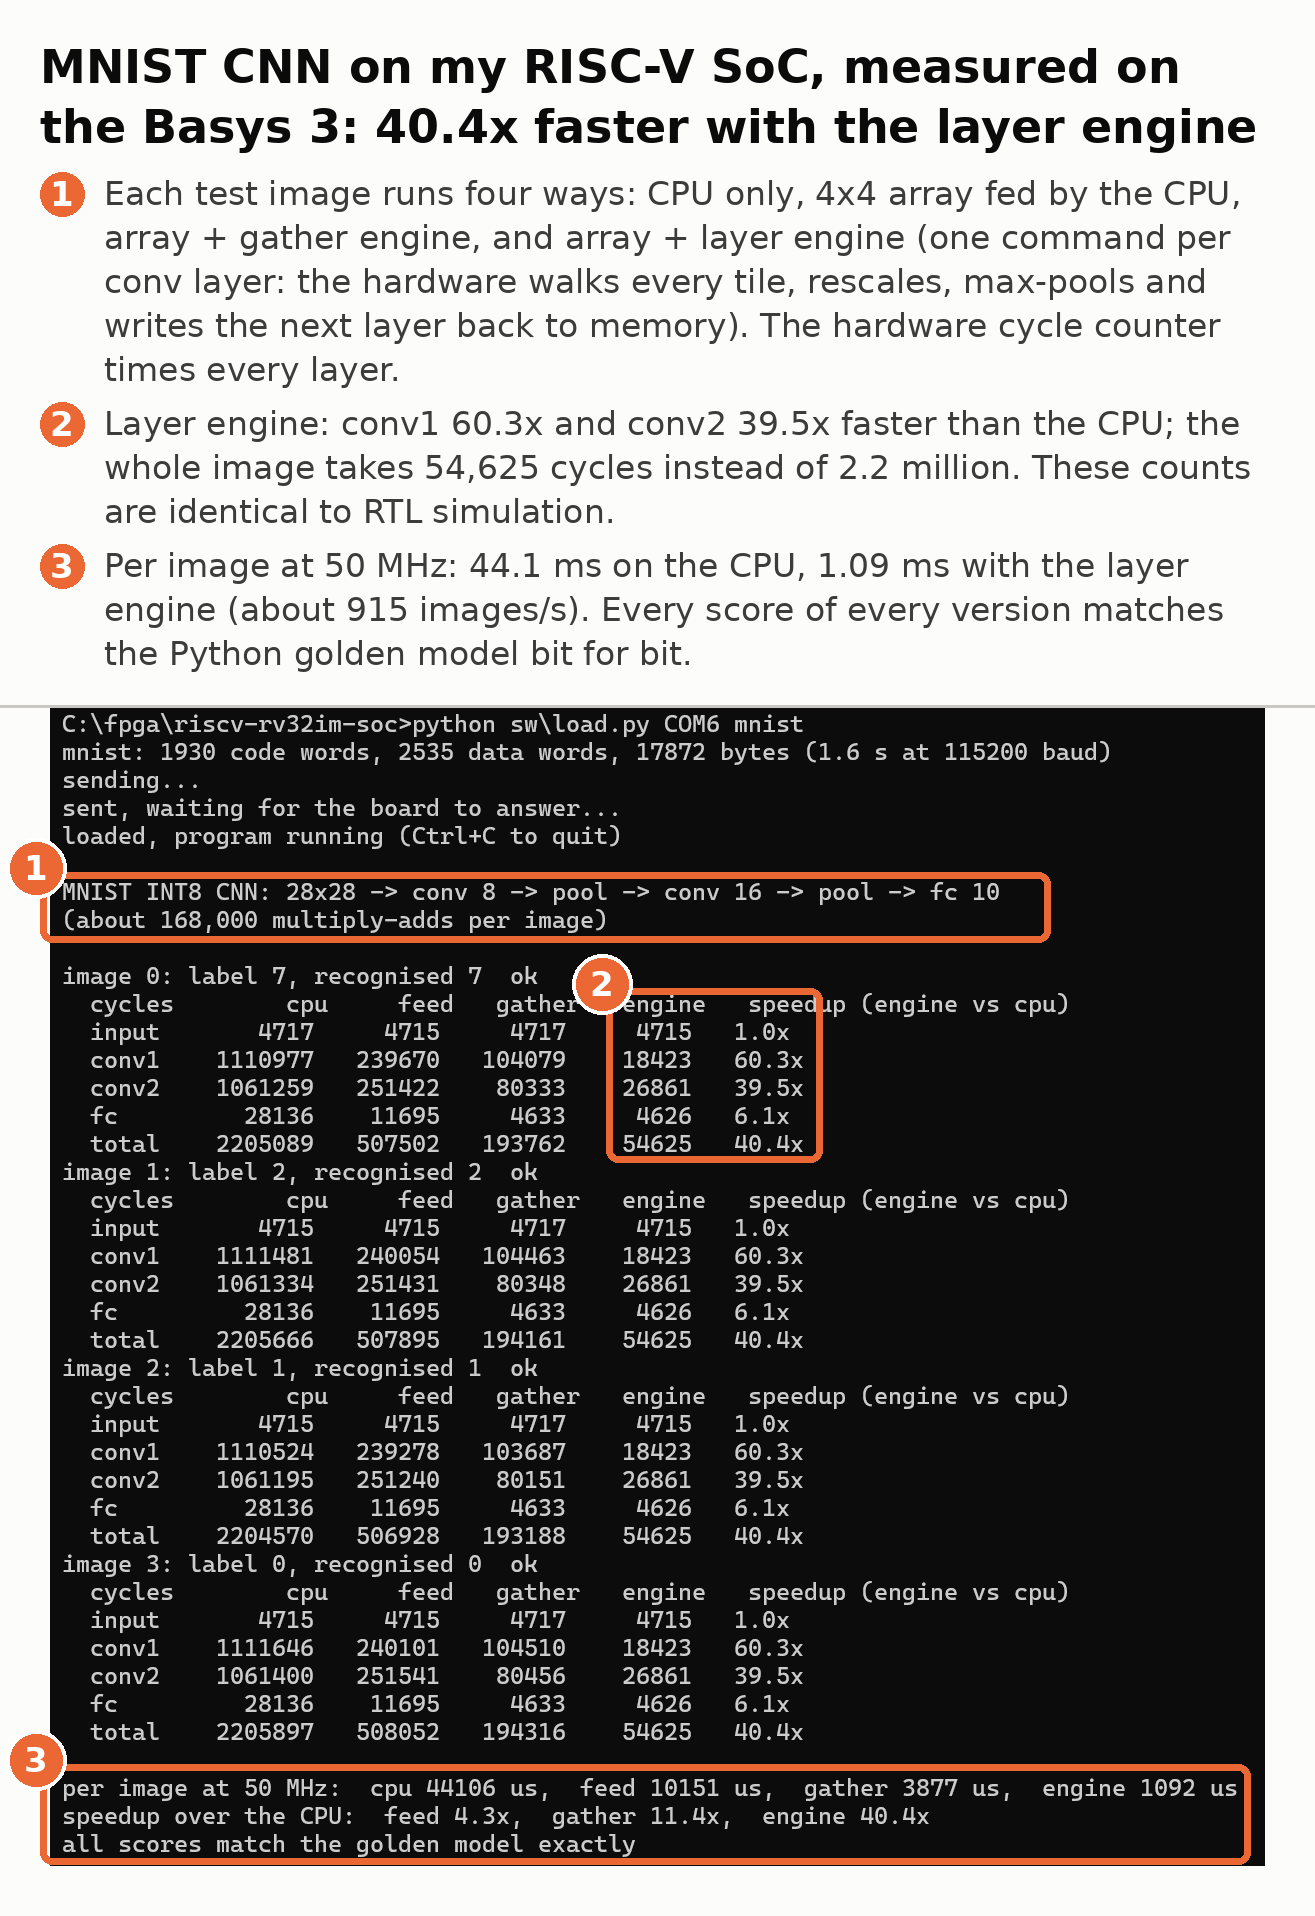
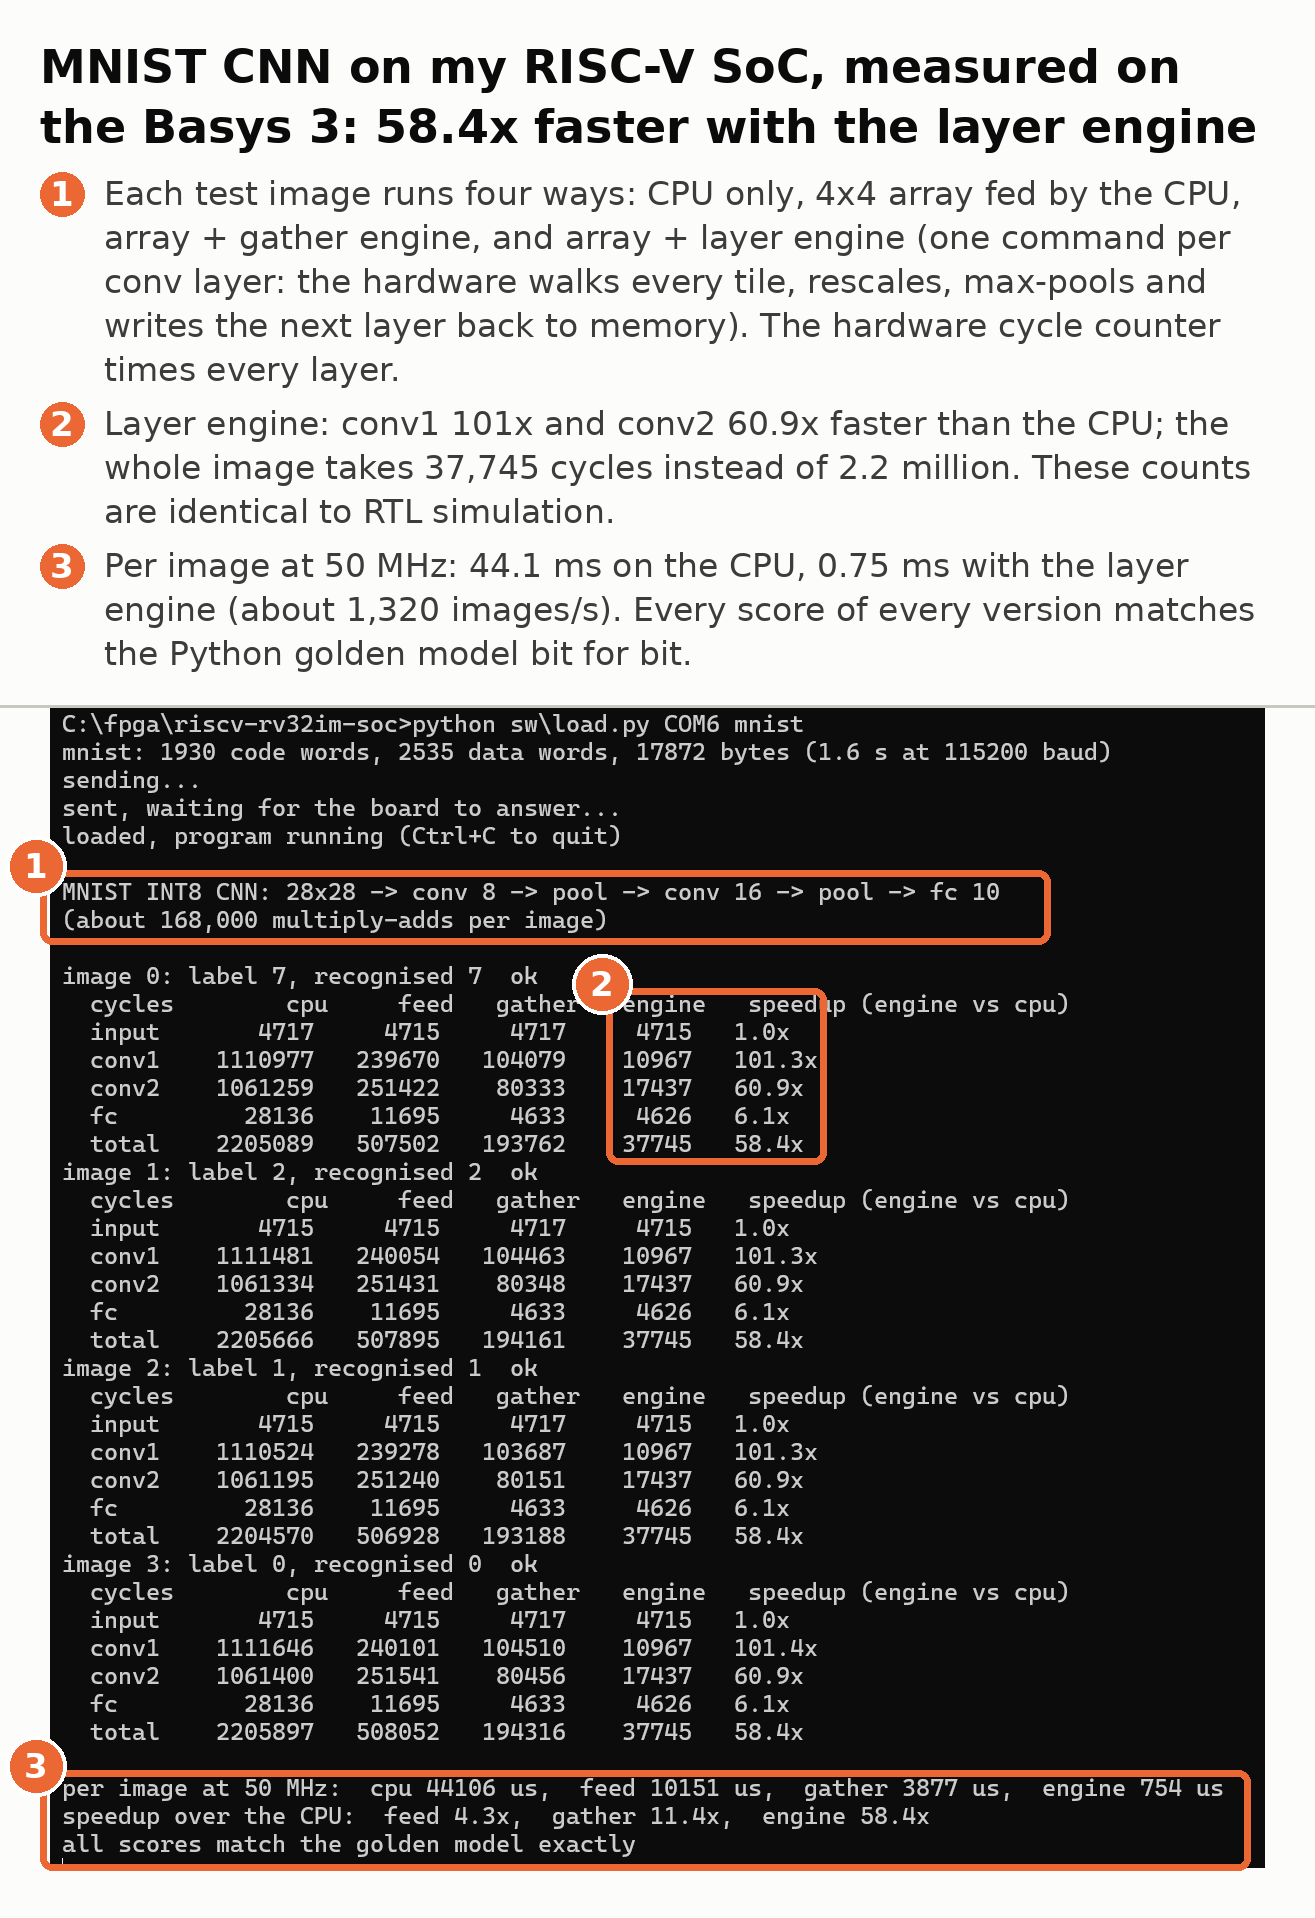
README: double buffering measured on the Basys 3 (58.4x, 0.75 ms per image)
Board cycle counts match RTL simulation; every score matches the golden model.
Updated the results table, the annotated board screenshot, the speedup chart and the
data-flow diagram (two buffer banks, fetch and compute sides); added step 7, where
the design stands (memory bandwidth, Amdahl limit) and a Future work section.

diff --git a/README.md b/README.md
@@ -12,7 +12,7 @@ UART console and a UART program loader, so new programs load in under a second w
 rebuilding the bitstream.
 
 Runs a **handwritten-digit recognition neural network** (INT8 CNN, 98.74 % on MNIST) on its own
-**systolic-array accelerator with a hardware layer engine**: **40.4x faster** than the CPU
+**systolic-array accelerator with a hardware layer engine**: **58.4x faster** than the CPU
 alone, measured on the board, with every output bit-identical to a Python golden model.
 
 Hardened into a **SkyWater 130 nm layout** (RTL to GDSII with LibreLane), and verified with two **UVM** environments on Cadence Xcelium (constrained-random programs checked
@@ -24,7 +24,7 @@ IMC), with planted bugs to prove the testbenches catch real failures.
 <table>
 <tr>
 <td width="50%"><img src="docs/images/nn/basys3_mnist_uart.png" alt="MNIST on the board"><br><b>A neural network on my CPU, measured on the Basys 3:</b> a small INT8 CNN recognises MNIST digits four ways: CPU only, accelerator fed by the CPU, with its gather engine, and with its layer engine. The hardware cycle counter times every layer; the board numbers are identical to RTL simulation and every score matches the Python golden model. <a href="#neural-network-on-the-soc-mnist">Details</a></td>
-<td width="50%"><img src="docs/images/nn/mnist_speedup.png" alt="speedup"><br><b>40.4x faster inference:</b> 44.1 ms per image on the CPU, 1.09 ms with the accelerator (about 915 images/s at 50 MHz). The first accelerator version was only 4.3x because the CPU spent its time moving data; each step after that came from measuring where the cycles went (gather engine 11.4x, layer engine 26.3x, deeper operand buffers 36.4x, parameters on chip 40.4x).</td>
+<td width="50%"><img src="docs/images/nn/mnist_speedup.png" alt="speedup"><br><b>58.4x faster inference:</b> 44.1 ms per image on the CPU, 0.75 ms with the accelerator (about 1,320 images/s at 50 MHz). The first accelerator version was only 4.3x because the CPU spent its time moving data; each step after that came from measuring where the cycles went (gather engine 11.4x, layer engine 26.3x, deeper operand buffers 36.4x, parameters on chip 40.4x, double buffering 58.4x).</td>
 </tr>
 <tr>
 <td colspan="2"><img src="docs/images/nn/accelerator_dataflow.png" alt="accelerator data flow"><br><b>What I built for it:</b> a layer engine that runs a whole convolution layer from one command: it drives a gather engine that reads image patches and weights straight from data memory through the block RAM's second port (convolution turned into matrix multiplication, "im2col", in hardware), an output stage that adds the bias, rescales to 8 bits and applies ReLU, and a 2x2 max pool that writes the next layer's input back to memory. The CPU sends one command per layer and waits.</td>
@@ -64,7 +64,7 @@ IMC), with planted bugs to prove the testbenches catch real failures.
 | FPGA | Basys 3 (Artix-7 XC7A35T): MMCM clocking, UART console, 7-segment display, LEDs, switches, buttons |
 | Program loader | hardware UART loader with checksum: `python sw/load.py COM5 bench` |
 | Accelerator | 4x4 INT8 systolic array (16 MACs/cycle) with a **layer engine** (one command per conv layer, 2x2 max pool in hardware), a **gather engine** (reads its own operands from data memory: im2col in hardware) and an **output stage** (bias, rescale, ReLU in hardware). 10.5x faster 32x32 matmul |
-| Neural network | INT8 CNN for MNIST (98.74 %), trained in NumPy, bit-exact C on the SoC: **40.4x** faster than the CPU on the board ([details](#neural-network-on-the-soc-mnist)) |
+| Neural network | INT8 CNN for MNIST (98.74 %), trained in NumPy, bit-exact C on the SoC: **58.4x** faster than the CPU on the board ([details](#neural-network-on-the-soc-mnist)) |
 | ASIC | Hardened on SkyWater 130 nm with LibreLane: 0.52 mm², DRC/LVS clean, timing closed at 20 MHz in all corners ([details](asic/riscv_cpu/README.md)) |
 | Verification | UVM on Xcelium + IMC: 48/48 riscv-tests in UVM, 17/17 regression tests pass, 100% functional coverage, SVA, bug injection |
 
@@ -158,11 +158,11 @@ hardware counter; identical to RTL simulation):
 
 | Layer | CPU only | Array fed by the CPU | + gather engine | + layer engine | Speedup |
 |---|---|---|---|---|---|
-| conv1 | 1,110,977 | 239,670 | 104,079 | **18,423** | 60.3x |
-| conv2 | 1,061,259 | 251,422 | 80,333 | **26,861** | 39.5x |
+| conv1 | 1,110,977 | 239,670 | 104,079 | **10,967** | 101x |
+| conv2 | 1,061,259 | 251,422 | 80,333 | **17,437** | 60.9x |
 | fully connected | 28,136 | 11,695 | 4,633 | **4,626** | 6.1x |
-| **Total** | **2,205,089** | 507,502 (4.3x) | 193,762 (11.4x) | **54,625 (40.4x)** | |
-| Per image at 50 MHz | 44.1 ms | 10.2 ms | 3.9 ms | **1.09 ms (about 915 images/s)** | |
+| **Total** | **2,205,089** | 507,502 (4.3x) | 193,762 (11.4x) | **37,745 (58.4x)** | |
+| Per image at 50 MHz | 44.1 ms | 10.2 ms | 3.9 ms | **0.75 ms (about 1,320 images/s)** | |
 
 **How the speedup was found, step by step:**
 
@@ -193,9 +193,19 @@ hardware counter; identical to RTL simulation):
    values in one cycle. Finished results are latched and written into the pooling buffer while
    the next tile is already being fetched. Bookkeeping halved; conv1 went to 18,423 cycles.
 
-Where the remaining time goes (while the layer engine works): about 54 % fetching operands,
-33 % computing in the array, 13 % bookkeeping. Fetching is now the bottleneck, so the next step
-is double buffering: fetch the next tile while the array computes the current one.
+7. **Double buffering (58.4x):** that left fetching at 54 % of the engine's time, with the array
+   waiting. The operand buffers now have two banks, and the engine is two state machines working
+   at the same time: a fetch side gathers the next job's patch and weights into the free bank
+   while a compute side runs the array from the other, through a 2-entry job queue. A patch is
+   still fetched once for all filter groups (its bank changes only when a new patch is fetched),
+   and fetching pauses while pooling writes through the shared memory port. conv1 reached 101x.
+
+**Where it stands now:** with fetching and computing overlapped, a layer takes about as long as
+its fetching. The engine reads memory through one block-RAM port (4 bytes per cycle at most,
+1 byte per cycle for most patch reads), so the accelerator is limited by memory bandwidth, not by
+the array. The input copy (4,715 cycles) and the fully connected layer (4,626) are a quarter of
+the remaining time and do not use the layer engine, which caps the speedup near 235x until they
+are accelerated too (Amdahl's law). See [Future work](#future-work).
 
 **Verification:**
 
@@ -210,6 +220,11 @@ is double buffering: fetch the next tile while the array computes the current on
   pass; a planted bug in the pooling compare fails 23 of them, a scale off by one fails 3. Widening
   this test found a real bug: with one output column and 4 filters, pooling read the last result
   one cycle before it was written (fixed with a wait state; MNIST never used that shape).
+- **Double buffering:** planted bugs in the bank logic are caught by the random layers: the array
+  always reading B from bank 0 fails 20 of 24 layers, the A bank never switching 13 of 24, the
+  fetch side ignoring a slot that is still in use locks the engine up (the test times out).
+  Freeing a slot as soon as its run starts is not caught and cannot fail: a gather writes at most
+  one step per cycle and starts after the run, so it never overtakes the run reading that bank.
 - **Parameters and background stores:** planted bugs in the new logic are all caught by the
   random layers: every group given group 0's bias and scale fails 20 of 24 layers, scales stored
   at the wrong index 14 of 24, pooling not waiting for the background store 1 of 24 (the
@@ -394,14 +409,28 @@ Done:
 - [x] Layer engine (one command per conv layer, max pool in hardware): 26.3x, measured on the board
 - [x] 128-step operand buffers (each conv2 patch fetched once): 36.4x, measured on the board
 - [x] Bias and scale on chip, results stored in the background: 40.4x, measured on the board
+- [x] Double buffering (fetch the next job while the array runs): 58.4x, measured on the board
 
-Next, in order:
+## Future work
 
-- [ ] **Faster accelerator:** double buffering (fetch the next tile while the array runs),
-      then an 8x8 array on DSP slices
-- [ ] **TFT display (2.4" SPI, tested on the board):** SPI controller on the memory map, C driver
-- [ ] **Live demo:** draw a digit with a USB mouse (or touch, once a touch controller is fitted),
-      the board recognises it and shows CPU vs accelerator time on the display
+The accelerator is now limited by memory bandwidth, not by its array, so the next steps are
+about moving data:
+
+- [ ] **Line buffer:** keep three input rows on chip and build the 3x3 patches from them, so each
+      input byte is read from memory once instead of up to 9 times (how CNN accelerators
+      usually handle convolution)
+- [ ] **8x8 systolic array** on the DSP slices (75 of 90 are free), once the line buffer can feed
+      it: 64 multiply-adds per cycle instead of 16
+- [ ] **Fully connected layer and input copy on the accelerator:** together a quarter of the
+      remaining time; without them the speedup cannot pass about 235x
+- [ ] **UVM for the gather and layer engines:** the UVM environment drives the accelerator the
+      original way, so its code coverage is 53 %; sequences for the engines would close that gap
+- [ ] **Live demo on the TFT (2.4" SPI, tested on the board):** draw a digit with a USB mouse
+      (or touch, once a touch controller is fitted), the board recognises it and shows CPU vs
+      accelerator time on the display
+
+Other plans for the SoC:
+
 - [ ] **Interrupts and CSRs:** machine mode, timer interrupt, traps (ecall, illegal instruction),
       official `rv32mi` tests
 - [ ] **Two-stage multiplier** (or ALU / PC+4 selected in Memory) to shorten the critical path,
